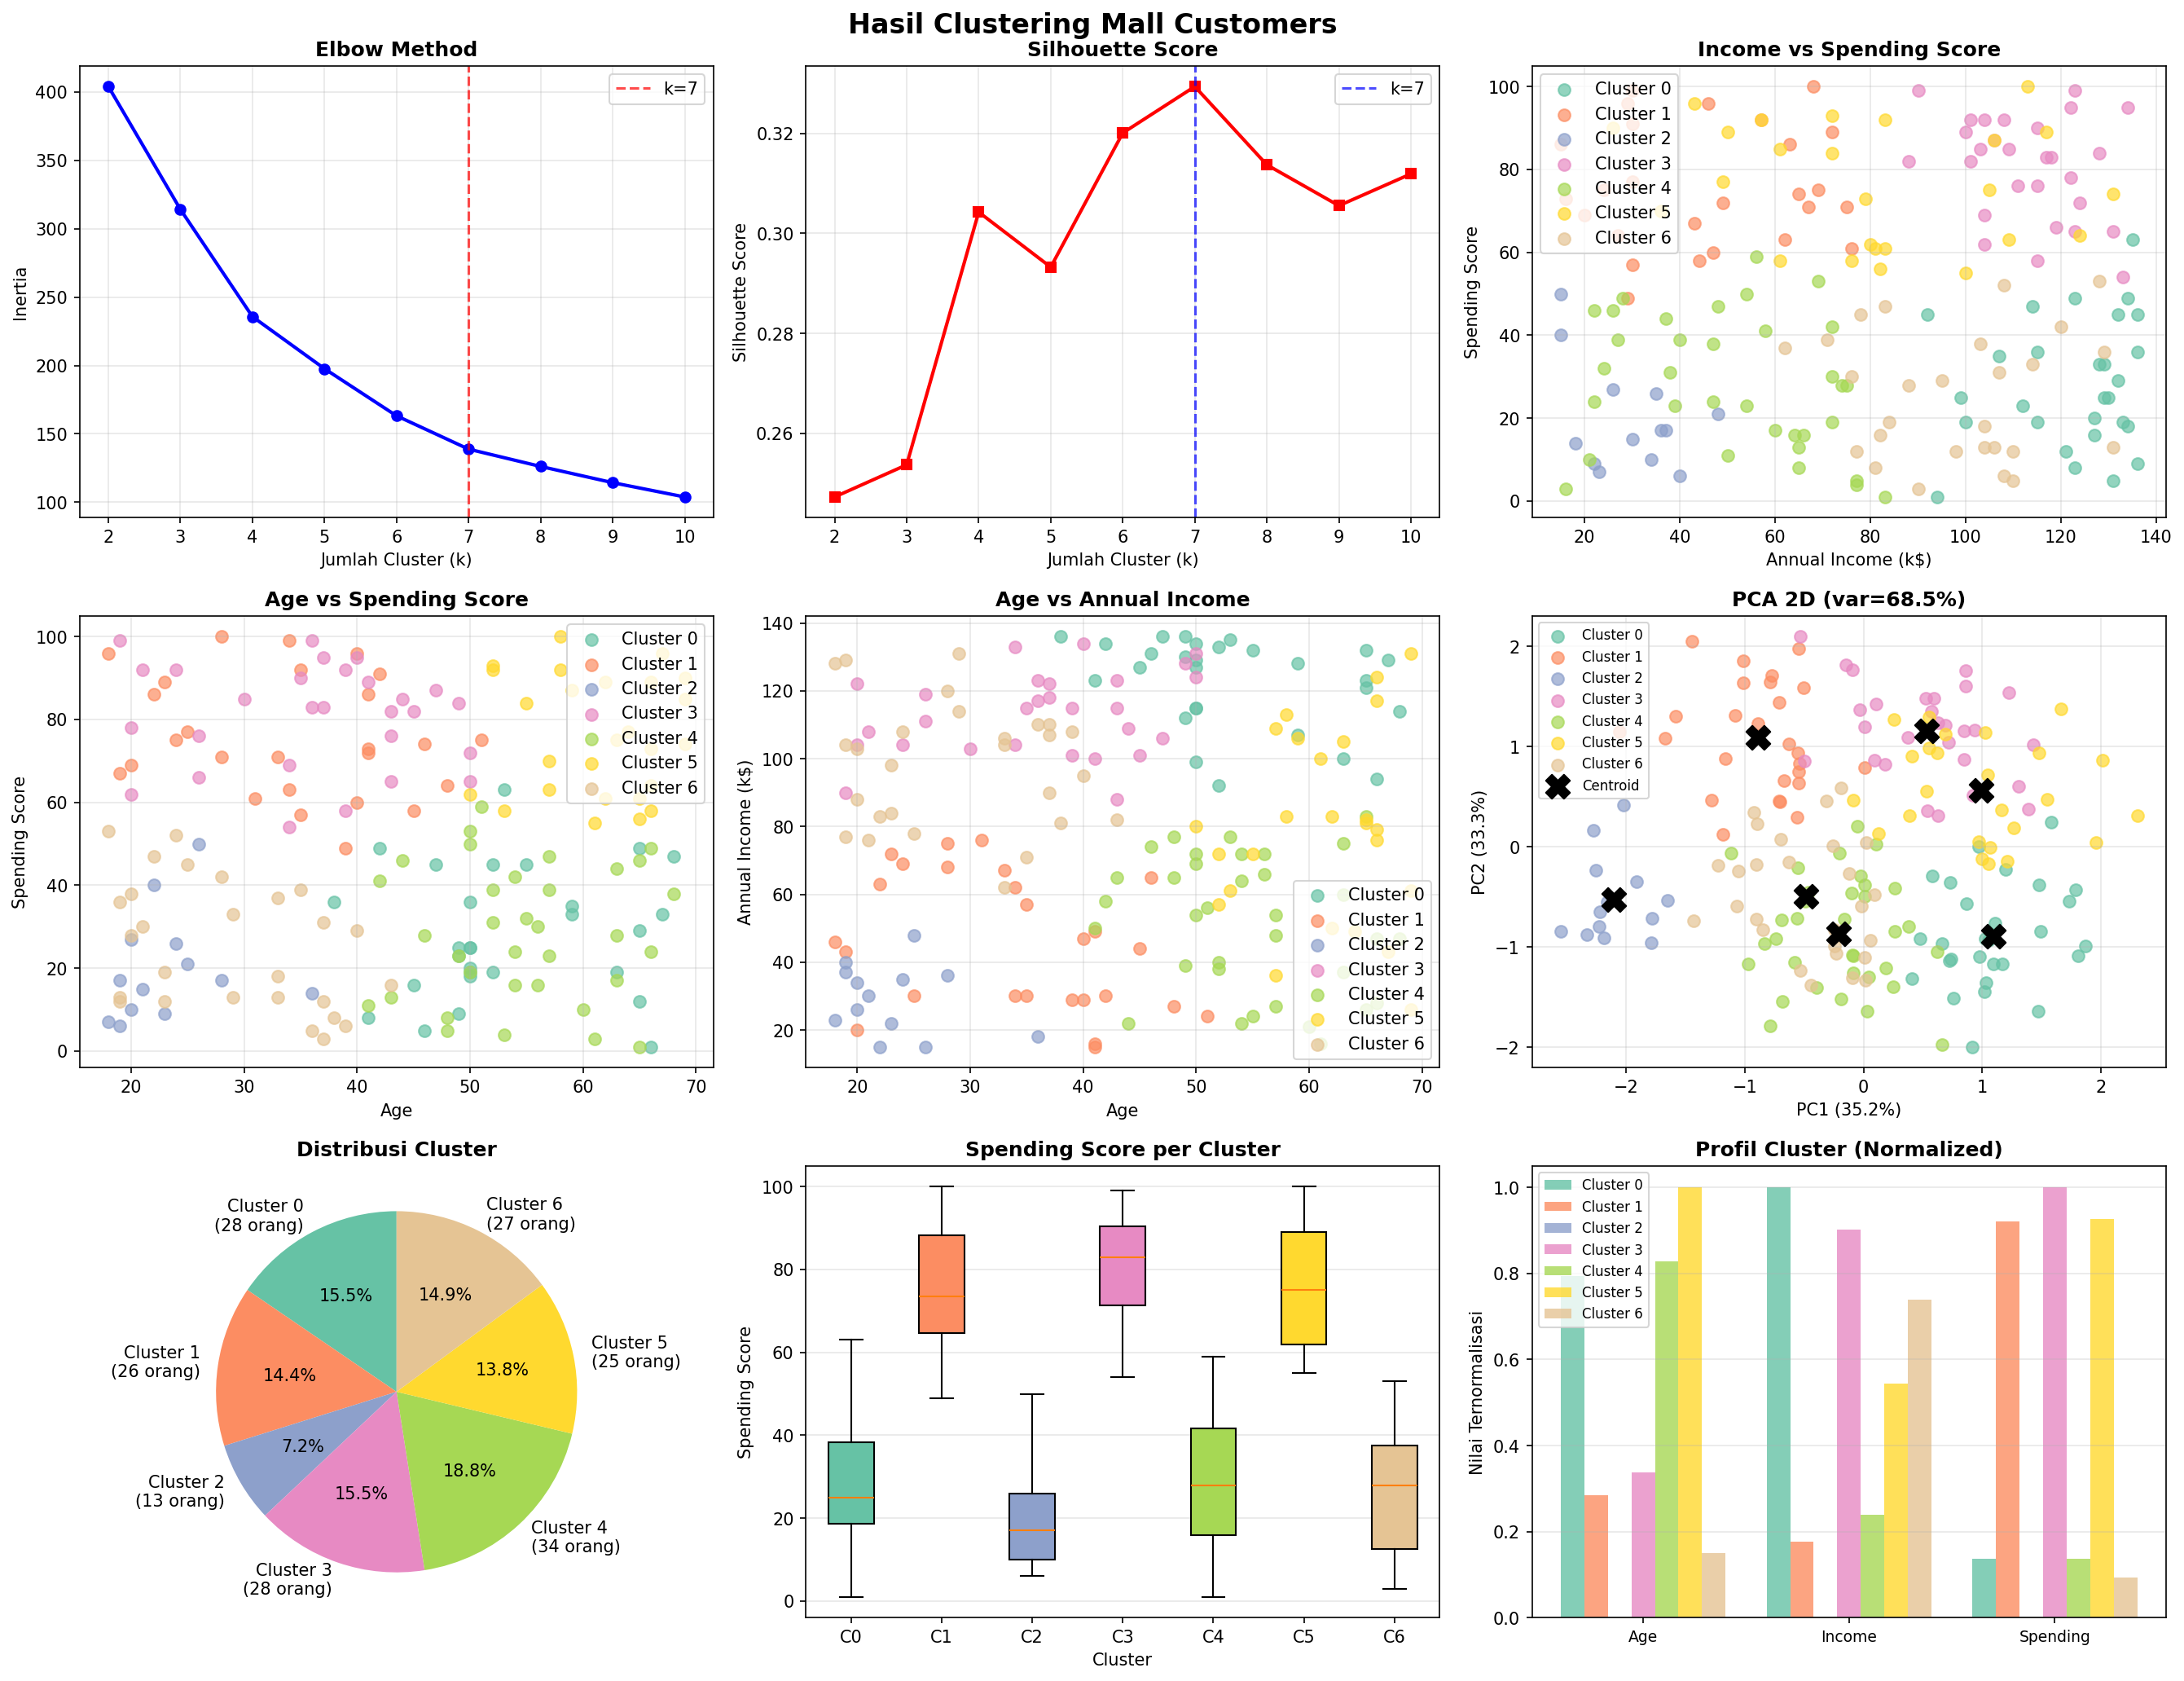
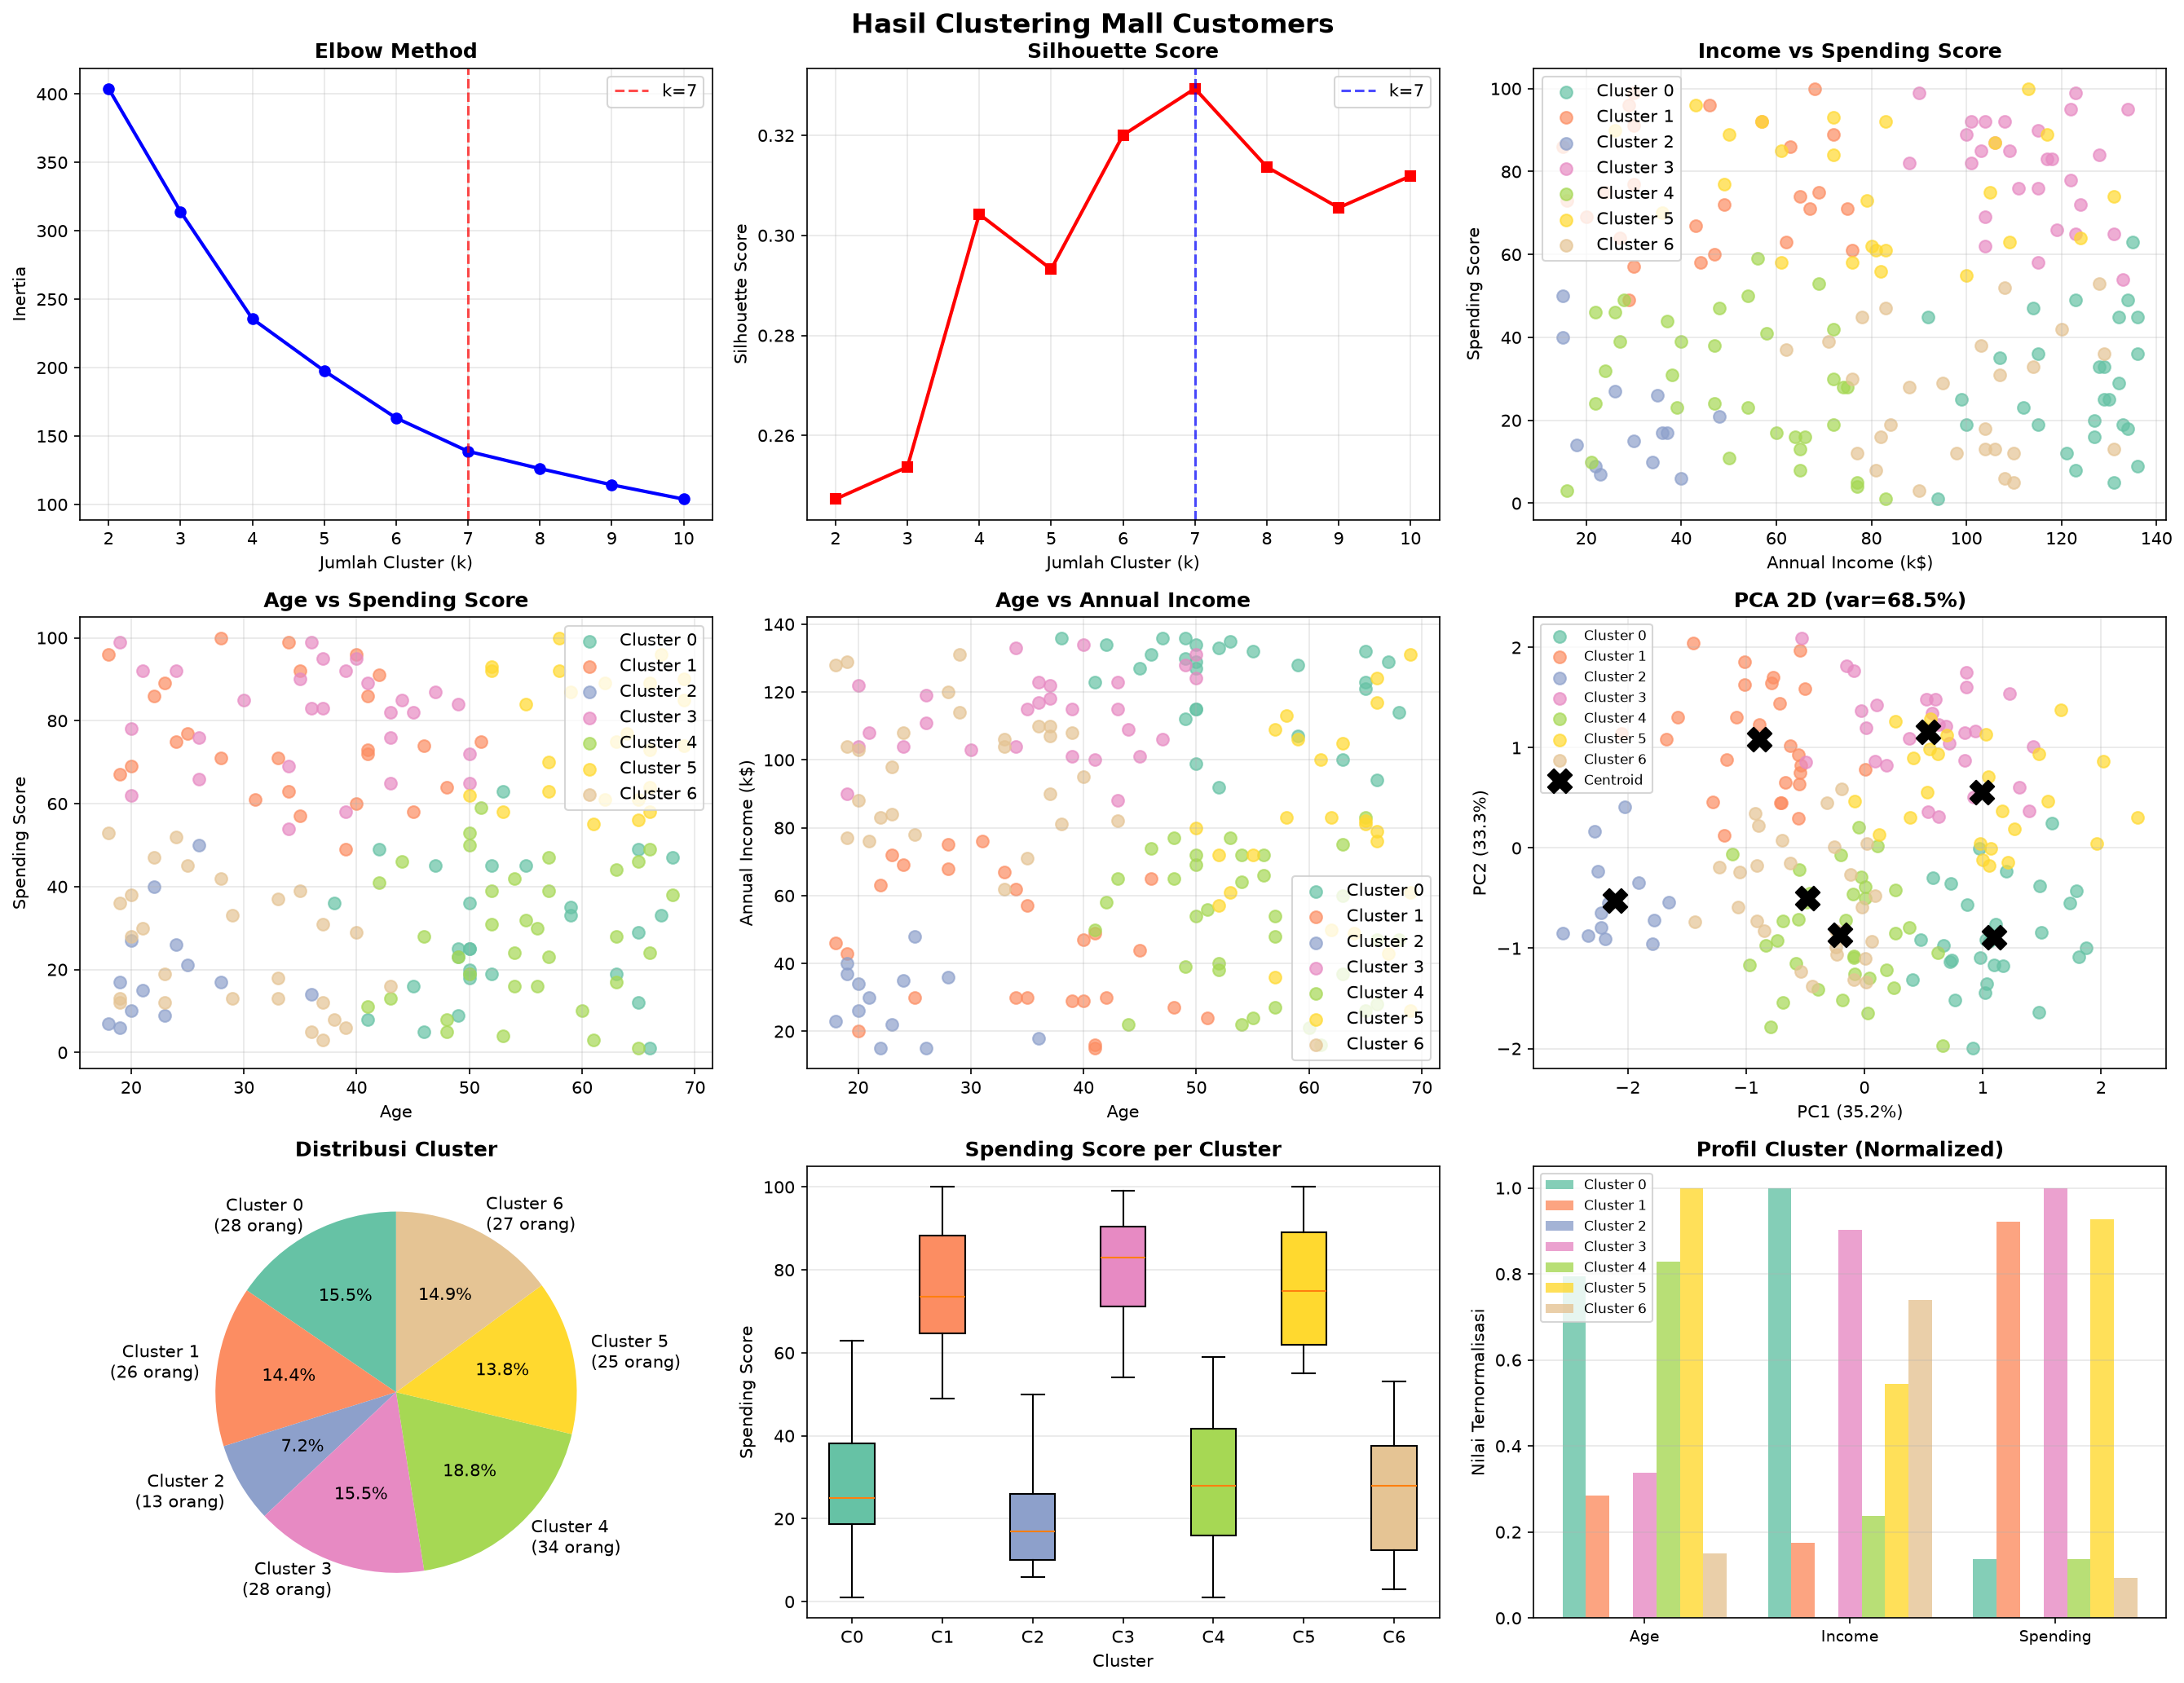
push

diff --git a/code/clustering_analysis.py b/code/clustering_analysis.py
@@ -2,10 +2,10 @@
 =============================================================
 Tugas Proyek Akhir: Preprocessing & Clustering
 Dataset: Mall Customer Segmentation
-Nama:
-Nim:
-Kelas:
-Mata Kuliah:
+Nama: Angres Fanrehalt
+Nim: 241011400778
+Kelas: 04TPLM008
+Mata Kuliah: DATA MINING
 =============================================================
 """
 
@@ -33,7 +33,7 @@ print("=" * 60)
 # 1. LOAD DATASET
 # ─────────────────────────────────────────────
 print("\n[1] LOAD DATASET")
-df_raw = pd.read_csv("mall_customers_raw.csv")
+df_raw = pd.read_csv("/workspaces/UAS-DATA-MINING/data/mall_customers_raw.csv")
 print(f"Shape awal  : {df_raw.shape}")
 print(f"Kolom       : {list(df_raw.columns)}")
 print("\nSample data (5 baris pertama):")
@@ -73,7 +73,7 @@ print(f"Nilai unik Gender sesudah: {df['Gender'].unique()}")
 df["Gender_Enc"] = df["Gender"].map({"male": 0, "female": 1})
 
 # 2e. Simpan cleaned dataset
-df.to_csv("mall_customers_cleaned.csv", index=False)
+df.to_csv("/workspaces/UAS-DATA-MINING/data/mall_customers_cleaned.csv", index=False)
 print(f"\nDataset bersih disimpan: {df.shape}")
 
 # ─────────────────────────────────────────────
@@ -310,7 +310,7 @@ print("Visualisasi disimpan: visualisasi_clustering.png")
 # 7. SIMPAN HASIL
 # ─────────────────────────────────────────────
 df.to_csv("mall_customers_with_clusters.csv", index=False)
-print("\nDataset dengan label cluster disimpan: mall_customers_with_clusters.csv")
+print("\nDataset dengan label cluster disimpan: /workspaces/UAS-DATA-MINING/data/mall_customers_with_clusters.csv")
 
 print("\n" + "=" * 60)
 print("ANALISIS SELESAI")